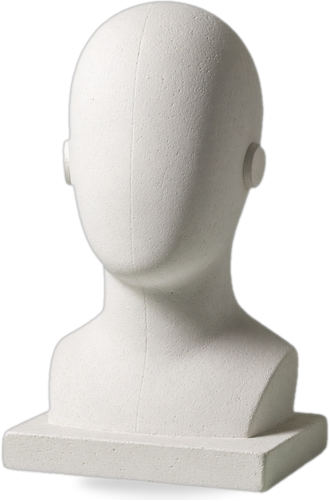
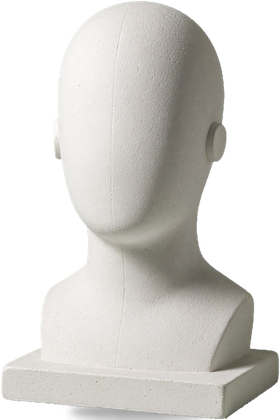
tracker: strip cast gray matte and heal studio pocket
Re-key casts/Einstein from green screen without residual gray plate fill,
and heal the flat dark region in the studio backdrop behind links and casts.

diff --git a/tracker/designs/casts/index.html b/tracker/designs/casts/index.html
@@ -85,7 +85,7 @@ img { display: block; }
 
 .casts { left: calc(716 * var(--u)); top: calc(160 * var(--u)); width: calc(512 * var(--u)); position: absolute; }
 .cast-nos { position: absolute; left: calc(744 * var(--u)); top: calc(96 * var(--u)); z-index: 3; width: calc(444 * var(--u)); display: grid; grid-template-columns: repeat(6, 1fr); font-family: var(--stencil); font-weight: 700; font-size: calc(46 * var(--u)); line-height: 1; color: #6a2420; text-align: center; height: calc(48 * var(--u)); text-shadow: calc(-1 * var(--u)) calc(-1 * var(--u)) 0 rgb(236 230 221 / .22), 0 1px 2px rgb(0 0 0 / .8); }
-.cast-row { position: relative; aspect-ratio: 1200 / 282; }
+.cast-row { position: relative; aspect-ratio: 1200 / 272; }
 .cast-row img { width: 100%; height: 100%; display: block; }
 .cast-row::after { content: none; }
 .casts-label { left: calc(786 * var(--u)); top: calc(333 * var(--u)); font-size: calc(25 * var(--u)); font-weight: 700; letter-spacing: .02em; color: var(--plaster); white-space: nowrap; }
@@ -283,7 +283,7 @@ footer .wrap { display: flex; flex-wrap: wrap; justify-content: space-between; g
     <div class="stage">
       <p class="cast-nos" aria-hidden="true"><span>1</span><span>2</span><span>3</span><span>4</span><span>5</span><span>6</span></p>
       <div class="casts">
-        <div class="cast-row"><picture><source srcset="assets/plates/casts.webp" type="image/webp"><img src="assets/plates/casts.png" alt="Six identical plaster casts of one helmeted figure: identical copies, where we're heading" width="1200" height="282"></picture></div>
+        <div class="cast-row"><picture><source srcset="assets/plates/casts.webp" type="image/webp"><img src="assets/plates/casts.png" alt="Six identical plaster casts of one helmeted figure: identical copies, where we're heading" width="1200" height="272"></picture></div>
       </div>
       <div class="face">
         <p class="casts-label" aria-hidden="true">Identical copies — where we're heading</p>

diff --git a/tracker/designs/casts/build.py b/tracker/designs/casts/build.py
@@ -312,7 +312,7 @@ img {{ display: block; }}
 
 .casts {{ left: calc(716 * var(--u)); top: calc(160 * var(--u)); width: calc(512 * var(--u)); position: absolute; }}
 .cast-nos {{ position: absolute; left: calc(744 * var(--u)); top: calc(96 * var(--u)); z-index: 3; width: calc(444 * var(--u)); display: grid; grid-template-columns: repeat(6, 1fr); font-family: var(--stencil); font-weight: 700; font-size: calc(46 * var(--u)); line-height: 1; color: #6a2420; text-align: center; height: calc(48 * var(--u)); text-shadow: calc(-1 * var(--u)) calc(-1 * var(--u)) 0 rgb(236 230 221 / .22), 0 1px 2px rgb(0 0 0 / .8); }}
-.cast-row {{ position: relative; aspect-ratio: 1200 / 282; }}
+.cast-row {{ position: relative; aspect-ratio: 1200 / 272; }}
 .cast-row img {{ width: 100%; height: 100%; display: block; }}
 .cast-row::after {{ content: none; }}
 .casts-label {{ left: calc(786 * var(--u)); top: calc(333 * var(--u)); font-size: calc(25 * var(--u)); font-weight: 700; letter-spacing: .02em; color: var(--plaster); white-space: nowrap; }}
@@ -510,7 +510,7 @@ footer .wrap {{ display: flex; flex-wrap: wrap; justify-content: space-between; 
     <div class="stage">
       <p class="cast-nos" aria-hidden="true"><span>1</span><span>2</span><span>3</span><span>4</span><span>5</span><span>6</span></p>
       <div class="casts">
-        <div class="cast-row"><picture><source srcset="assets/plates/casts.webp" type="image/webp"><img src="assets/plates/casts.png" alt="Six identical plaster casts of one helmeted figure: identical copies, where we're heading" width="1200" height="282"></picture></div>
+        <div class="cast-row"><picture><source srcset="assets/plates/casts.webp" type="image/webp"><img src="assets/plates/casts.png" alt="Six identical plaster casts of one helmeted figure: identical copies, where we're heading" width="1200" height="272"></picture></div>
       </div>
       <div class="face">
         <p class="casts-label" aria-hidden="true">Identical copies — where we're heading</p>
